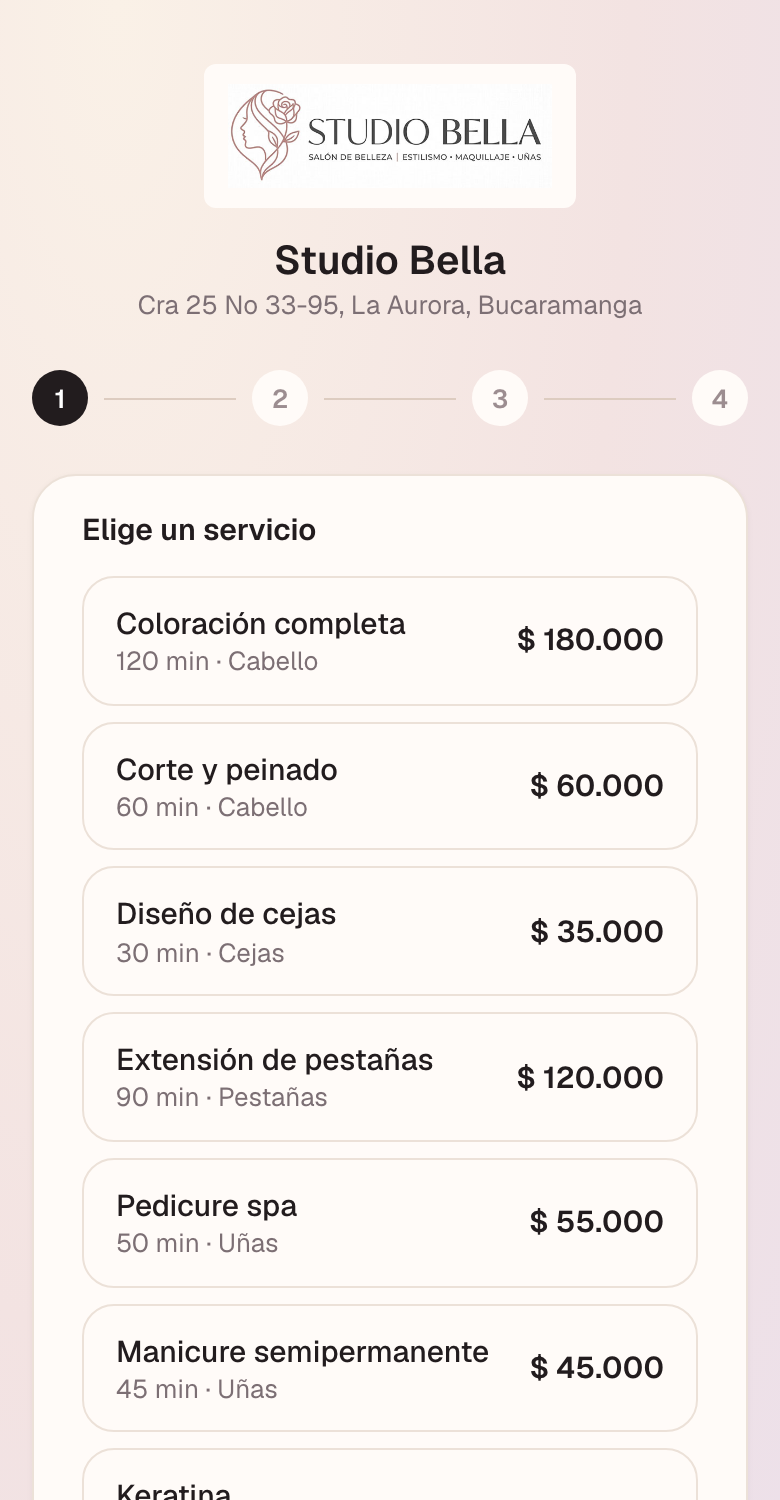
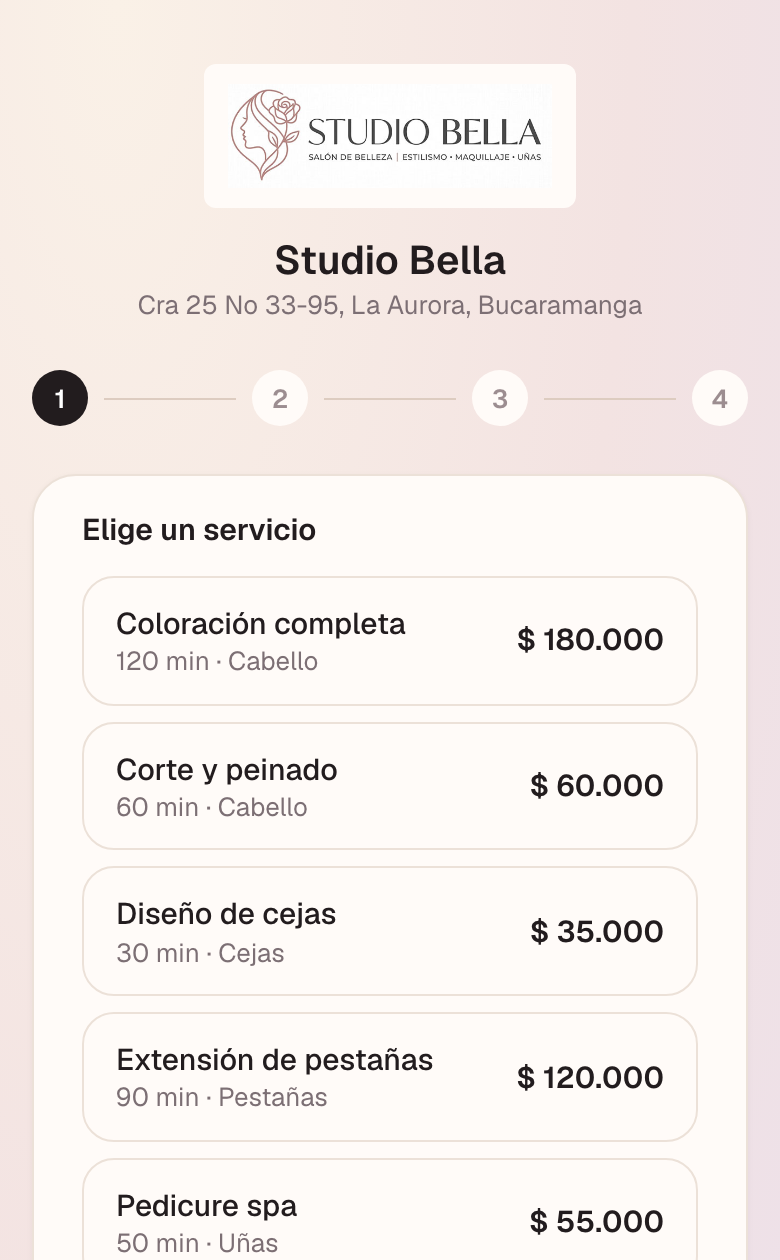
Use production Reportes screen for the mockup; match phone heights
Replaced the Reportes mockup with a real screenshot captured from
gebook.site (production data) instead of local dev. The three showcase
phones now share a fixed frame height sized to the shortest image's
natural aspect ratio, so they render at identical size — previously
each phone's frame grew to its own image's natural height, making
"Agenda del negocio" visibly smaller than the other two.

diff --git a/src/app/page.tsx b/src/app/page.tsx
@@ -61,13 +61,28 @@ function FeatureIcon({ children }: { children: React.ReactNode }) {
   );
 }
 
-function PhoneFrame({ src, alt, className }: { src: string; alt: string; className?: string }) {
+function PhoneFrame({
+  src,
+  alt,
+  className,
+  matchHeight,
+}: {
+  src: string;
+  alt: string;
+  className?: string;
+  /** Recorta por abajo a una altura fija compartida, para que varios celulares en fila
+      se vean del mismo tamaño sin forzar un aspect-ratio que corte texto a los lados. */
+  matchHeight?: boolean;
+}) {
   return (
     <div className={cn("relative mx-auto w-[220px] shrink-0 sm:w-[240px]", className)}>
-      {/* Sin aspect-ratio fijo ni object-cover: cada captura conserva su alto natural
-          según su propio contenido, así nunca se recorta texto a los lados. */}
-      <div className="overflow-hidden rounded-[2.2rem] border-[7px] border-[var(--color-ink-900)] bg-[var(--color-ink-900)] shadow-[var(--shadow-md)] ring-1 ring-[var(--color-ink-900)]/15">
-        {/* eslint-disable-next-line @next/next/no-img-element -- mockups are static files in /public, not remote/optimizable content */}
+      <div
+        className={cn(
+          "overflow-hidden rounded-[2.2rem] border-[7px] border-[var(--color-ink-900)] bg-[var(--color-ink-900)] shadow-[var(--shadow-md)] ring-1 ring-[var(--color-ink-900)]/15",
+          matchHeight && "h-[355px] sm:h-[388px]"
+        )}
+      >
+        {/* eslint-disable-next-line @next/next/no-img-element -- mockups son archivos estáticos en /public */}
         <img src={src} alt={alt} className="block h-auto w-full" />
       </div>
     </div>
@@ -183,17 +198,17 @@ export default function LandingPage() {
         </div>
         <div className="grid gap-10 sm:grid-cols-3">
           <div className="text-center">
-            <PhoneFrame src="/landing/mock-agenda.png" alt="Agenda del negocio" />
+            <PhoneFrame src="/landing/mock-agenda.png" alt="Agenda del negocio" matchHeight />
             <h3 className="mt-5 font-semibold text-[var(--color-ink-900)]">Agenda del negocio</h3>
             <p className="mt-1 text-sm text-[var(--color-ink-500)]">Crea reservas tú mismo y envía el resumen por WhatsApp a cada cliente.</p>
           </div>
           <div className="text-center">
-            <PhoneFrame src="/landing/mock-public.png" alt="Página pública de reservas" />
+            <PhoneFrame src="/landing/mock-public.png" alt="Página pública de reservas" matchHeight />
             <h3 className="mt-5 font-semibold text-[var(--color-ink-900)]">Reserva pública</h3>
             <p className="mt-1 text-sm text-[var(--color-ink-500)]">Tus clientes también pueden reservar solos, 24/7, sin crear una cuenta.</p>
           </div>
           <div className="text-center">
-            <PhoneFrame src="/landing/mock-reportes.png" alt="Reportes del negocio" />
+            <PhoneFrame src="/landing/mock-reportes.png" alt="Reportes del negocio" matchHeight />
             <h3 className="mt-5 font-semibold text-[var(--color-ink-900)]">Reportes del negocio</h3>
             <p className="mt-1 text-sm text-[var(--color-ink-500)]">Ingresos, comisiones y rendimiento por empleado, de un vistazo.</p>
           </div>
